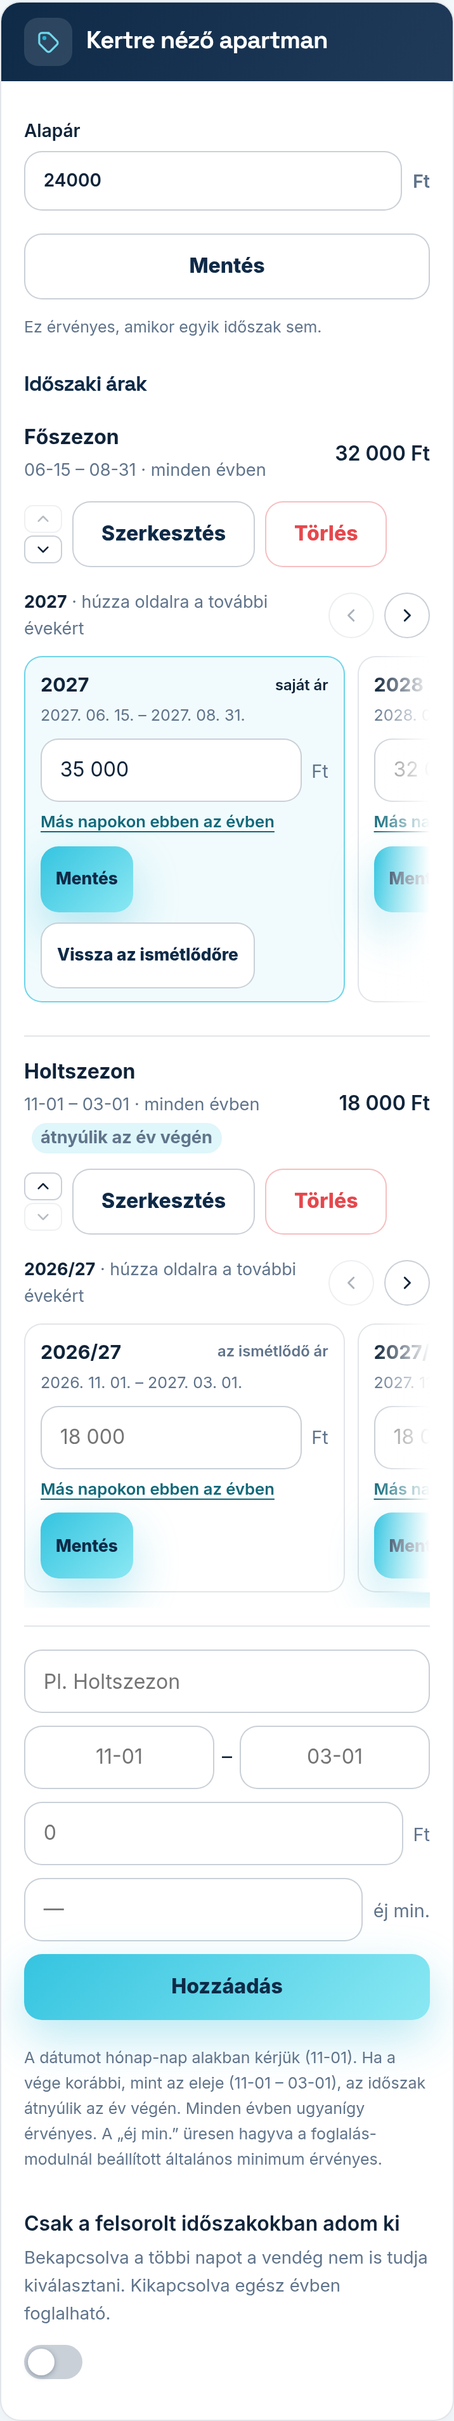
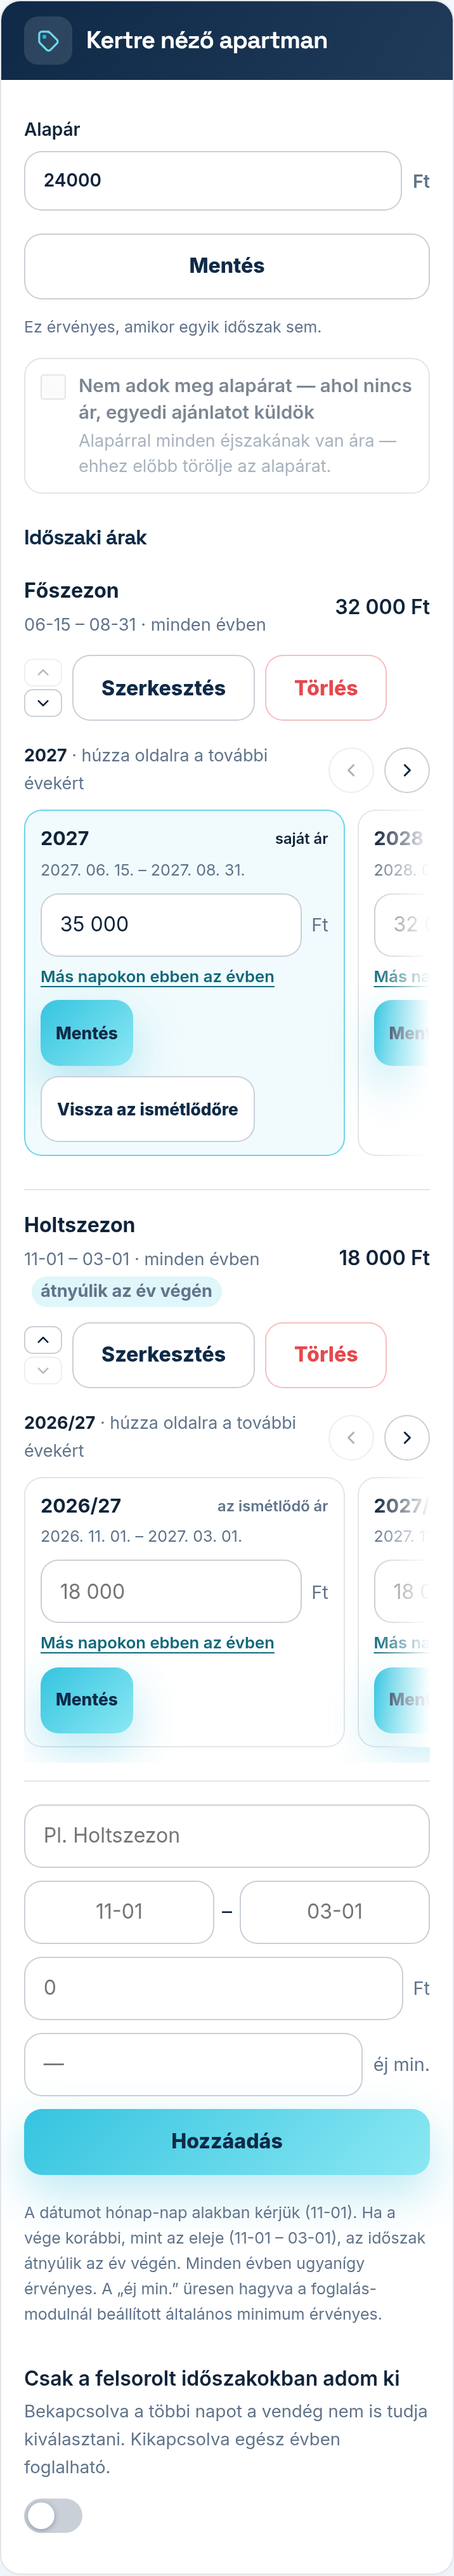
chore(migráció): 0074 → 0075 (a 0074-et az évhez kötött szezonár vitte) + súgó-képek az összefésült kártyáról
A ⑥.5 (ADR-0221) e munka közben landolt; a két szál az Árazás kártyán, a publikus
útvonalakban és a pre-commitban kézzel összefésülve, mindkét őr zöld.

Claude-Session: https://claude.ai/code/session_01WWKY41nvkMiNdmsSB16ABG

diff --git a/src/db/schema.ts b/src/db/schema.ts
@@ -643,10 +643,10 @@ export interface SiteTable {
   created_at: Generated<Timestamp>;
   /** Tenant-owned content overrides (0011); NULL → use the artifact's siteData. */
   edited_site_data: NullableJson;
-  /** 0074 (ADR-0208 ⑥.4): when the hourly tick first saw an undeclared price gap;
+  /** 0075 (ADR-0208 ⑥.4): when the hourly tick first saw an undeclared price gap;
    *  NULL = none. Cleared when the gap closes (the episode ends). */
   price_gap_since: Timestamp | null;
-  /** 0074: when the last weekly price-gap reminder went out (claimed conditionally). */
+  /** 0075: when the last weekly price-gap reminder went out (claimed conditionally). */
   price_gap_reminded_at: Timestamp | null;
 }
 
@@ -912,7 +912,7 @@ export interface SiteUnitTable {
    *  site (partial unique index, 0059). Booking it takes every other unit off the
    *  market for those nights, and any booked room takes IT off the market. */
   is_whole_property: Generated<boolean>;
-  /** 0074 (ADR-0208 ⑥.2): "nem adok meg árat" — where this unit has no price row,
+  /** 0075 (ADR-0208 ⑥.2): "nem adok meg árat" — where this unit has no price row,
    *  the owner quotes each guest individually. A DECISION, not a gap: no to-do row,
    *  no reminder, and the page lists the unit as "Egyedi ajánlat alapján". */
   price_on_request: Generated<boolean>;

diff --git a/src/server/moduleConfigViews.ts b/src/server/moduleConfigViews.ts
@@ -1088,7 +1088,7 @@ export interface EditorUnit {
   readonly coverUrl?: string | null;
   /** "Csak a felsorolt időszakokban adom ki" (ADR-0049). */
   readonly seasonalOnly?: boolean;
-  /** ADR-0208 ⑥.2: "nem adok meg árat" — the owner's stated decision (0074). */
+  /** ADR-0208 ⑥.2: "nem adok meg árat" — the owner's stated decision (0075). */
   readonly priceOnRequest?: boolean;
   /** ADR-0114 — this unit IS the whole place; it and the rooms exclude each other.
    *  The unit tabs say so, because it changes what a blocked day MEANS. */

diff --git a/src/tenant/units.ts b/src/tenant/units.ts
@@ -27,7 +27,7 @@ export interface Unit {
   /** ADR-0114 — this unit IS the whole place. It and the rooms exclude each other:
    *  see `blockingUnitIds()` in unitScope.ts for what that means day by day. */
   readonly isWholeProperty: boolean;
-  /** ADR-0208 ⑥.2 (0074): "nem adok meg árat" — where no price row covers a night,
+  /** ADR-0208 ⑥.2 (0075): "nem adok meg árat" — where no price row covers a night,
    *  the owner quotes individually. A decision, so it is not reported as missing. */
   readonly priceOnRequest: boolean;
 }

diff --git a/_planning/memory/2026-09-23_price_on_request.md b/_planning/memory/2026-09-23_price_on_request.md
@@ -14,7 +14,7 @@
    konkrét példával (egy szoba, amit mindig egyedi ajánlattal ad ki) lett eldönthető →
    `site_unit.price_on_request`. ④ mezők: `site.price_gap_since` / `price_gap_reminded_at`.
 3. **§2b:** egy működő mock (A: pipa az alapár alatt · B: két kártya), mobil+asztali → a tulaj: **A**.
-4. **Megvalósítás:** migráció 0074 · `unitPriceStatus` (prices.ts) · `priceGap.ts` (hiány-lista +
+4. **Megvalósítás:** migráció 0075 · `unitPriceStatus` (prices.ts) · `priceGap.ts` (hiány-lista +
    heti tick) · Árazás kártya · két felvevő űrlap + visszajelzés · Áttekintés sor · vendég-lap
    „Egyedi ajánlat alapján” · súgó (4 szócikk + új kép) · őr + pre-commit.
 
@@ -36,7 +36,7 @@
 
 ## Módosított / új fájlok
 
-- `migrations/0074_unit_price_on_request.sql` (új) · `src/db/schema.ts`
+- `migrations/0075_unit_price_on_request.sql` (új) · `src/db/schema.ts`
 - `src/tenant/prices.ts` · `src/tenant/priceGap.ts` (új) · `src/tenant/units.ts` · `src/tenant/editor.ts`
 - `src/server/moduleConfigViews.ts` · `src/server/adminViews.ts` · a publikus szerver útvonalai
 - `src/engine/recipe.ts` · `src/engine/moduleSections.ts` · `public/assets/ui/citui-admin.css`
@@ -49,5 +49,5 @@
 
 ## Nyitva
 
-⑥.5 felülete (párhuzamos szál) · a heti levél zaja valódi adaton · a Szobák kártya ár-sora a
+⑥.5 közben landolt (ADR-0221, összefésülve) · a heti levél zaja valódi adaton · a Szobák kártya ár-sora a
 kimondott szobánál nem ír „egyedi ajánlat”-ot (az „Árak” táblázat mondja ki).

diff --git a/MEMORY.md b/MEMORY.md
@@ -14,7 +14,7 @@ Utolsó frissítés: 2026-09-23 („nem adok meg árat” + új egység ára + h
 ## Aktív feladat (legfrissebb szál, 2026-09-23 este)
 
 **🏷 A „NINCS ÁR” KIMONDOTT DÖNTÉS + ÚJ EGYSÉG ÁRA + HETI EMLÉKEZTETŐ — KÉSZ LOKÁLBAN (ADR-XXXX,
-migráció 0074). Élesítés nem volt.** Az ADR-0208 ⑥.2–⑥.4. Jegyzet:
+migráció 0075). Élesítés nem volt.** Az ADR-0208 ⑥.2–⑥.4. Jegyzet:
 `_planning/memory/2026-09-23_price_on_request.md` · kontraktus: `assets/design-refs/tenant-admin/price-on-request/`.
 
 - `site_unit.price_on_request` (szobánként „Nem adok meg alapárat” pipa, alapár mellett tiltott, az
@@ -22,8 +22,8 @@ migráció 0074). Élesítés nem volt.** Az ADR-0208 ⑥.2–⑥.4. Jegyzet:
   + pipa, a mentés sosem tagad meg · Áttekintés: „{n} szobájának nincs ára” (a részleges esetet is) ·
   vendég-lap: a kimondott szoba „Egyedi ajánlat alapján” · heti levél: 7 nap után, hetente, korlát
   nélkül (`site.price_gap_since` / `price_gap_reminded_at`).
-- Őr: `scripts/price-on-request-check.mts` (pre-commit). Nyitva: ⑥.5 felülete (párhuzamos szál),
-  a levél zaja valódi adaton még nem mérhető.
+- Őr: `scripts/price-on-request-check.mts` (pre-commit). A ⑥.5 (évhez kötött szezon) közben ADR-0221-ként
+  landolt — a két szál az Árazás kártyán összefésülve. Nyitva: a levél zaja valódi adaton még nem mérhető.
 
 ## Előző szál (2026-09-23 este — évhez kötött szezonár)
 

diff --git a/_planning/decisions/XXXX-a-nincs-ar-kimondott-dontes-uj-egyseg-ara-heti-emlekezteto.md b/_planning/decisions/XXXX-a-nincs-ar-kimondott-dontes-uj-egyseg-ara-heti-emlekezteto.md
@@ -4,7 +4,7 @@
 · ⑥.3 · ⑥.4 (ez a három tétel), ADR-0215 (az ár ideje; ennek a szálnak az előzménye), ADR-0197 ①
 (a részlegesen árazott szállás, amiről eddig senki nem szólt), ADR-0194 (a kifizetett-de-üres
 teendő-sor), ADR-0193 ① (nem blokkolunk) · **Kontraktus:** `assets/design-refs/tenant-admin/price-on-request/`
-· **Migráció:** 0074.
+· **Migráció:** 0075.
 
 **Kiváltó.** A tulaj mandátuma (`~/rc-briefs/arazas-nincs-ar-uj-egyseg-emlekezteto.md`): a
 hiányzó ár és a „szándékosan nincs ár” megkülönböztethetetlen; új egységnél senki nem kér árat;
@@ -93,8 +93,10 @@ mobil láthatóság bukik · a 7 napos várakozás nélkül 2 bukás · ha a kim
 
 ### ⑤ AMI NYITVA MARAD
 
-1. ADR-0208 ⑥.5 felülete (évhez kötött szezon, „Főszezon 2027”, szezon-végi nudge) — a
-   párhuzamos szál viszi; ehhez nem nyúltam.
+1. ADR-0208 ⑥.5 (évhez kötött szezon, szezon-végi kérdés) a párhuzamos szálon ADR-0221-ként
+   landolt, e munka közben; a landoláskor a két szál az Árazás kártyán, a publikus szerver
+   útvonalaiban és a pre-commitban kézzel összefésülve, mindkét őr újrafuttatva. A migráció-szám
+   kétszer csúszott (0073 → 0074 → 0075).
 2. A szoba-kártya (Szobák modul) ár-sora a kimondott szobánál nem ír „egyedi ajánlat”-ot —
    a terv nem kérte; az „Árak” táblázat mondja ki.
 3. A heti levél zaja valódi adaton (lásd ②).
